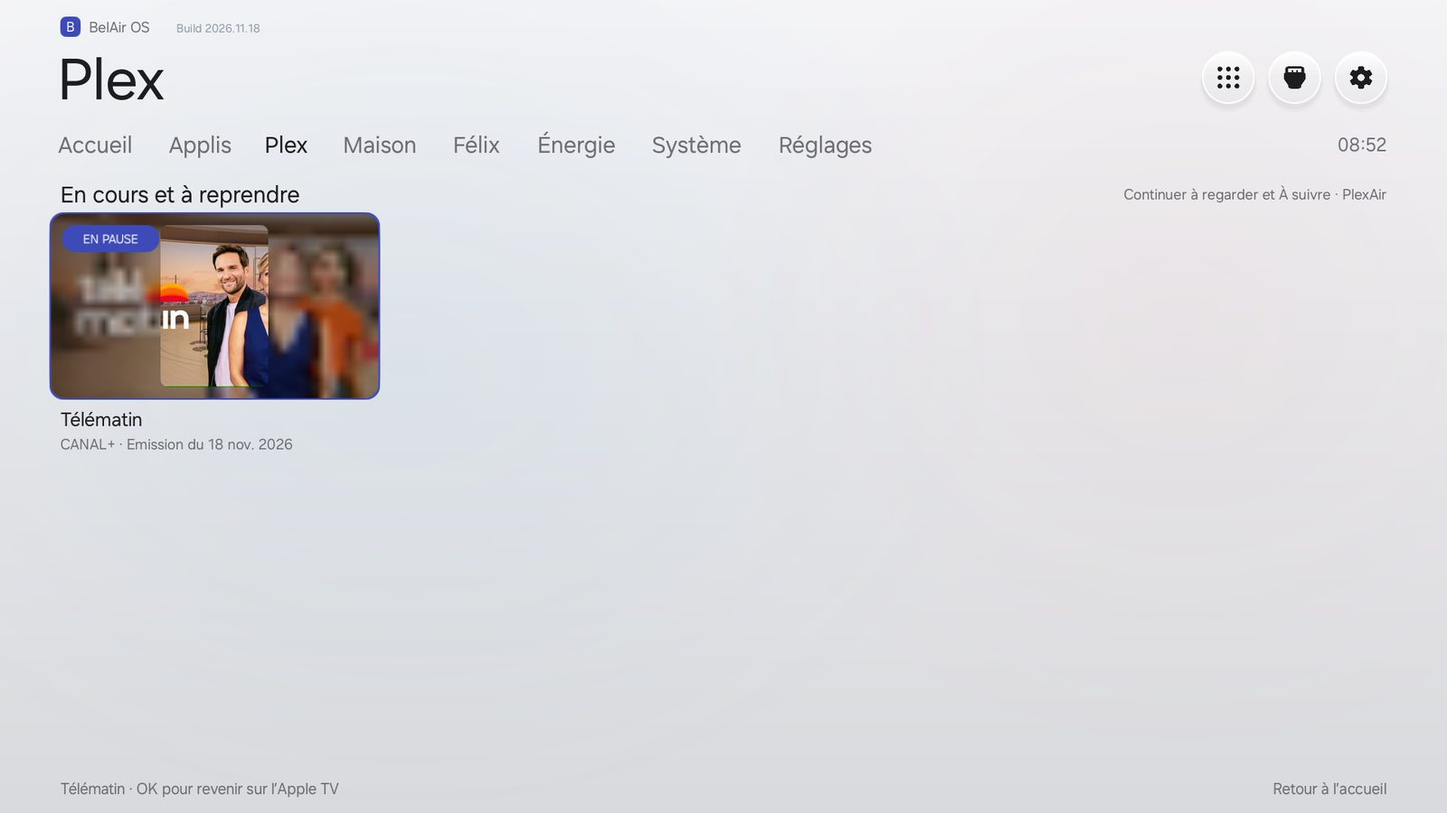
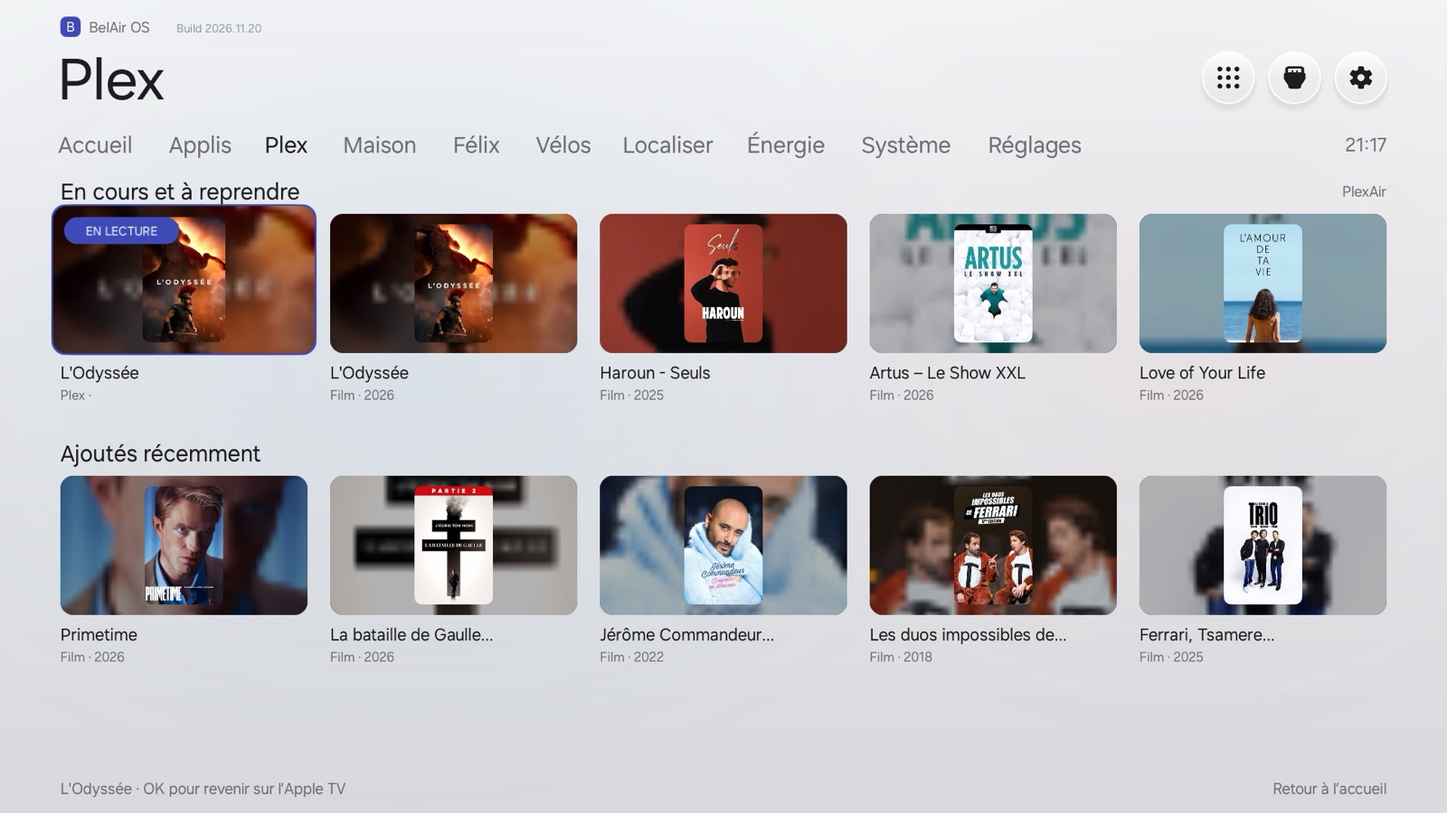
README screenshots (Vélos, Localiser in demo mode, PIN, Plex, popup); Localiser zoom and PIN pad; Plex via the Apple TV player; security: only BelAir's Home may send home commands, service allowlist, certificate bypass limited to the local HA; Plan IGN basemap; iPhones first

diff --git a/launcher/src/Home.cs b/launcher/src/Home.cs
@@ -253,6 +253,7 @@ public sealed class QuietHome : NUIApplication
   else if(requested!=null&&requested.StartsWith("show:light:")){page=5;area=1;selected=0;lightId=requested.Substring(11);lightOpen=true;lightRow=0;lightCol=0;BuildPage();}
   else if(requested!=null&&requested.StartsWith("show:catalog:")){page=5;area=1;selected=0;lightId=requested.Substring(13);lightOpen=true;catalogOpen=true;catIndex=0;catSel=0;catPage=0;catOnTabs=true;BuildPage();}
   else if(requested!=null&&requested.StartsWith("show:cover:")){page=5;area=1;selected=0;coverPopupEntity=requested.Substring(11);coverPopupSel=2;coverPopupOpen=true;BuildPage();}
+  else if(requested!=null&&requested.StartsWith("show:findfocus:")&&Demo()){page=11;area=1;findFocus="device_tracker.demo_"+requested.Substring(15);BuildPage();}
   else if(requested=="show:close"){CloseBrief(false);pictureOpen=false;cleanOpen=false;BuildPage();}
   else if(requested=="show:picture"){page=2;area=1;selected=3;BuildPage();OpenPicture();}
   else if(requested=="show:clean"){page=9;area=1;selected=0;cleanOpen=true;cleanRow=0;cleanCol=0;BuildPage();}
@@ -671,7 +672,7 @@ public sealed class QuietHome : NUIApplication
   if(page==0&&factDetailOpen)BuildFactDetail();
   selected=Math.Max(0,Math.Min(selected,slots.Count-1));UpdateFocus(false);
   if(page==10&&mapSel>=0)ApplyMapMode();
-  if(page!=11&&findUnlocked){findUnlocked=false;pinEntry="";findFocus="";}
+  if(page!=11&&findUnlocked){findUnlocked=false;pinEntry="";findFocus="";findZoom=-1;}
   buildMilliseconds=stopwatch.ElapsedMilliseconds;WriteState("page_ready");
  }
  void BuildForecast()
@@ -2092,7 +2093,8 @@ public sealed class QuietHome : NUIApplication
   for(int i=0;i<tabs.Length;i++){bool act=tabPage[i]==page;tabs[i].TextColor=act?ink:muted;tabs[i].FontFamily="Quiet Inter "+(act?"Semibold":"Medium");tabs[i].BackgroundColor=area==0&&act?(dark?new Color(1,1,1,.14f):new Color(1,1,1,.7f)):new Color(0,0,0,0);tabs[i].CornerRadius=new Vector4(34,34,34,34);}
   for(int i=0;i<slots.Count;i++){
    var s=slots[i];bool newsControl=s.Action.StartsWith("news_category:")||s.Action.StartsWith("news_item:")||s.Action.StartsWith("quote:");
-   bool f=factDetailOpen?false:page==3?area==3&&selected==i:newsMenuOpen?newsControl&&area!=9&&!quoteDetailOpen&&selected==i:area!=0&&area!=9&&selected==i;
+   // PIN pad: focus is shown only on its starting key (1), so you know where you are but nobody can follow the code.
+   bool f=factDetailOpen?false:page==11&&!findUnlocked?selected==i&&slots[i].Action=="pin:1":page==3?area==3&&selected==i:newsMenuOpen?newsControl&&area!=9&&!quoteDetailOpen&&selected==i:area!=0&&area!=9&&selected==i;
    float scale=f?(page==8||page==9||page==10||page==11?(s.H>120?1.06f:1.05f):page==2&&s.Row==2?1.04f:page==5||page==4?1.05f:s.Action=="news"?1.035f:newsControl?1.015f:page==1&&s.Row>=0?1.055f:page==2&&s.Row>=0?1.035f:s.Row==0?1.05f:s.Row==1?(page==0?1.14f:1.03f):s.Row==-2?1.025f:s.Row==-1?1.18f:1):1;
    s.Card.BorderlineWidth=page==8||page==9||page==10||page==11||page==2&&s.Row==2?(f?4:0):page==5||page==4?(f?3:0):s.Action=="news"?(f?3:0):newsControl?(f?4:0):s.Row==1?(f?3:0):page==1&&s.Row>=0?(f?4:1):s.Row==-2?(f?4:0):s.Row==-1?(f?4:0):s.Row==0?1:0;
    s.Card.BorderlineColor=(page==1||page==4||page==5||page==8||page==9||page==10||page==11||page==2&&s.Row==2||s.Row==-1||newsControl)&&f?accent:new Color(1,1,1,f?.8f:.28f);
@@ -2113,7 +2115,7 @@ public sealed class QuietHome : NUIApplication
   }
   if(focusAnimation!=null)focusAnimation.Play();
   if(clock!=null)clock.Opacity=page==3||page==4||page!=0&&area==3?0:1;toolbarHint.Text=area==3?slots[selected].Name:"";
-  detail.Text=quoteDetailOpen?"←/→ échelle · ↑/↓ action précédente ou suivante · Retour pour fermer":area==11?"←/→ choisir · OK graphique du jour · ↑ rubriques · ↓ articles":page==3&&area==5?"←/→ heures · ↓ jours · OK détail · ↑ menu":page==3&&area==6?"←/→ jours · ↑ heures · OK détail":area==7?"←/→ rubrique · ↓ titres · OK pour afficher":area==8?"↑ rubriques · ←/→ changer · OK pour le détail":area==4&&selected==metroSlotIndex?"OK pour voir les 2 prochains métros par direction":area==4?"OK pour les prévisions du jour et sur 7 jours":(page==1||page==8||page==9||page==10||page==11)&&area==1&&slots[selected].Row>=0?slots[selected].Name+" · "+slots[selected].Description:area==0&&page==0?"↑ Actualités · gauche/droite pour changer d’écran":area==0?"":area==2?slots[selected].Name:"";
+  detail.Text=quoteDetailOpen?"←/→ échelle · ↑/↓ action précédente ou suivante · Retour pour fermer":area==11?"←/→ choisir · OK graphique du jour · ↑ rubriques · ↓ articles":page==3&&area==5?"←/→ heures · ↓ jours · OK détail · ↑ menu":page==3&&area==6?"←/→ jours · ↑ heures · OK détail":area==7?"←/→ rubrique · ↓ titres · OK pour afficher":area==8?"↑ rubriques · ←/→ changer · OK pour le détail":area==4&&selected==metroSlotIndex?"OK pour voir les 2 prochains métros par direction":area==4?"OK pour les prévisions du jour et sur 7 jours":(page==1||page==8||page==9||page==10||page==11)&&area==1&&slots[selected].Row>=0?(slots[selected].Name!=""?slots[selected].Name+" · ":"")+slots[selected].Description:area==0&&page==0?"↑ Actualités · gauche/droite pour changer d’écran":area==0?"":area==2?slots[selected].Name:"";
   if(page==2){
    slots[0].Label.Text=currentVolume<0?"Indisponible":currentVolume.ToString();
    slots[1].Label.Text=SettingName("brightness");
@@ -2164,7 +2166,8 @@ public sealed class QuietHome : NUIApplication
    }
    if(page==11&&!findUnlocked&&k.Length==1&&k[0]>='0'&&k[0]<='9'){PinKey(k);return;}
    if(page==11&&ringAsk!=""){HandleRingKey(k);return;}
-   if(page==11&&findUnlocked&&findFocus!=""&&(k=="XF86Back"||k=="Back"||k=="Escape")){findFocus="";RebuildKeepFocus();return;}
+   if(page==11&&findUnlocked&&(k=="XF86RaiseChannel"||k=="XF86LowerChannel"||k=="KP_Add"||k=="KP_Subtract"||k=="plus"||k=="minus")){FindZoom(k=="XF86RaiseChannel"||k=="KP_Add"||k=="plus"?1:-1);return;}
+   if(page==11&&findUnlocked&&findFocus!=""&&(k=="XF86Back"||k=="Back"||k=="Escape")){findFocus="";findZoom=-1;RebuildKeepFocus();return;}
    if(page==10&&mapSel>=0){HandleMapKey(k);return;}
    if(page==10&&area==1&&k=="Right"&&velib.Count+limePts.Count>0){EnterMap();return;}
    if((page==8||page==9||page==10||page==11)&&HandleGridKey(k,page==8?"plex_back":"felix_back"))return;
@@ -2325,6 +2328,7 @@ public sealed class QuietHome : NUIApplication
   if(a.StartsWith("channel:")){StartChannel(a.Substring(8));return;}
   if(a.StartsWith("atv:")){LaunchOnAppleTv(a);return;}
   if(a.StartsWith("pin:")){PinKey(a.Substring(4));return;}
+  if(a.StartsWith("findzoom:")){FindZoom(a.EndsWith("in")?1:-1);return;}
   if(a.StartsWith("find:")){
    string fid=a.Substring(5);
    if(!keyUpSeen){FocusFind(fid);return;}
@@ -2939,7 +2943,8 @@ public sealed class QuietHome : NUIApplication
  const int bikeMapX=560,bikeMapY=290,bikeMapW=1280,bikeMapH=690,bikeMapR=430;
  // Street map tiles per plan (key "theme|width|height|radius for 400 m"), from the helper's cache.
  readonly Dictionary<string,Tuple<List<Tuple<string,int,int>>,int>> basemaps=new Dictionary<string,Tuple<List<Tuple<string,int,int>>,int>>();readonly Dictionary<string,DateTime> basemapAsked=new Dictionary<string,DateTime>();
- string MapKey(int w,int h,int r){return (dark?"dark":"light")+"|"+w+"|"+h+"|"+r;}
+ static bool Demo(){try{return File.Exists("/tmp/quiet-demo");}catch{return false;}}
+ string MapKey(int w,int h,int r){return (Demo()?"demo-":"")+(dark?"dark":"light")+"|"+w+"|"+h+"|"+r;}
  // Adds the street map to a plan panel (asks for it the first time), with a dark veil in the dark theme.
  void AddBasemap(View map,int mw,int mh,int r,string target="")
  {
@@ -3011,7 +3016,7 @@ public sealed class QuietHome : NUIApplication
   leg.Add(new View{Position2D=new Position2D(556,9),Size2D=new Size2D(24,24),CornerRadius=new Vector4(12,12,12,12),BackgroundColor=HexColor("#83C491")});
   leg.Add(Label("Métro Bel-Air",588,6,160,30,16,ink,"Medium"));
   if(mapSel<0){var tip=new View{Position2D=new Position2D(mw-370,20),Size2D=new Size2D(350,42),CornerRadius=new Vector4(14,14,14,14),BackgroundColor=Sf(1,1,1,.92f)};map.Add(tip);var tl=Label("→ pour explorer la carte",0,6,350,30,17,ink,"Medium");tl.HorizontalAlignment=HorizontalAlignment.Center;tip.Add(tl);}
-  var attr=Label("© les contributeurs d’OpenStreetMap",mw-330,mh-36,310,26,14,dark?new Color(1,1,1,.6f):new Color(0,0,0,.55f),"Medium");attr.HorizontalAlignment=HorizontalAlignment.End;map.Add(attr);
+  var attr=Label("Plan IGN © IGN · © OpenStreetMap",mw-330,mh-36,310,26,14,dark?new Color(1,1,1,.6f):new Color(0,0,0,.55f),"Medium");attr.HorizontalAlignment=HorizontalAlignment.End;map.Add(attr);
  }
  void RequestBasemap(string key)
  {
@@ -3036,6 +3041,9 @@ public sealed class QuietHome : NUIApplication
  sealed class FindItem { public string Id="",Name="",Bs="",Model="",State="",Zone="",Sound="",Located=""; public int Bat=-1,Acc,Dx,Dy; public long Dist; }
  readonly List<FindItem> findItems=new List<FindItem>();bool findUnlocked,findLoaded;string pinEntry="",pinFirst=null,pinMsg="",findFocus="",pendingFind;int pinFails;DateTime pinLockUntil=DateTime.MinValue,lastFindRequest=DateTime.MinValue;string ringAsk="";int ringSel;
  const int findMapX=560,findMapY=290,findMapW=1280,findMapH=690,findMapR=170,findFocusR=300;
+ // Zoom steps: pixels for 400 m. -1 = automatic (overview or device).
+ static readonly int[] findZooms={45,80,120,170,300,520,900};int findZoom=-1;
+ void FindZoom(int dir){int cur=findZoom>=0?findZoom:Array.IndexOf(findZooms,findFocus!=""?findFocusR:findMapR);findZoom=Math.Max(0,Math.Min(findZooms.Length-1,cur+dir));RebuildKeepFocus();}
  string PinPath(){try{return System.IO.Path.Combine(Current.DirectoryInfo.Data,"find-pin.txt");}catch{return "";}}
  static string PinHash(string salt,string pin){using(var sha=System.Security.Cryptography.SHA256.Create())return Convert.ToBase64String(sha.ComputeHash(System.Text.Encoding.UTF8.GetBytes(salt+":"+pin)));}
  bool PinExists(){try{return File.Exists(PinPath());}catch{return false;}}
@@ -3043,11 +3051,11 @@ public sealed class QuietHome : NUIApplication
  void PinSave(string pin){try{string salt=Convert.ToBase64String(System.Security.Cryptography.RandomNumberGenerator.GetBytes(12));File.WriteAllText(PinPath(),salt+":"+PinHash(salt,pin));}catch{}}
  void PinKey(string k)
  {
-  if(DateTime.Now<pinLockUntil){pinMsg="Trop d’essais · patientez "+(int)(pinLockUntil-DateTime.Now).TotalSeconds+" s";RebuildKeepFocus();return;}
+  if(DateTime.Now<pinLockUntil){pinMsg="Trop d’essais · patientez "+(int)(pinLockUntil-DateTime.Now).TotalSeconds+" s";PinFocusOne();return;}
   if(k=="back"){Home("find_back");return;}
-  if(k=="del"){if(pinEntry.Length>0)pinEntry=pinEntry.Substring(0,pinEntry.Length-1);RebuildKeepFocus();return;}
+  if(k=="del"){if(pinEntry.Length>0)pinEntry=pinEntry.Substring(0,pinEntry.Length-1);PinFocusOne();return;}
   if(pinEntry.Length<4)pinEntry+=k;
-  if(pinEntry.Length<4){RebuildKeepFocus();return;}
+  if(pinEntry.Length<4){PinFocusOne();return;}
   string entry=pinEntry;pinEntry="";
   if(!PinExists()){
    if(pinFirst==null){pinFirst=entry;pinMsg="";}
@@ -3056,17 +3064,21 @@ public sealed class QuietHome : NUIApplication
   }
   else if(PinCheck(entry)){Unlock();return;}
   else{pinFails++;pinMsg=pinFails>=3?"Code incorrect · patientez 30 s":"Code incorrect";if(pinFails>=3){pinFails=0;pinLockUntil=DateTime.Now.AddSeconds(30);}}
-  RebuildKeepFocus();
+  PinFocusOne();
  }
+ // The PIN pad never shows which digit was chosen: focus goes back to 1 after every key, and the footer names no digit.
+ void PinFocusOne(){BuildPage();for(int i=0;i<slots.Count;i++)if(slots[i].Action=="pin:1"){selected=i;area=1;break;}UpdateFocus(false);}
  void Unlock(){findUnlocked=true;pinFails=0;pinMsg="";area=1;selected=0;if(!findLoaded||DateTime.Now-lastFindRequest>=TimeSpan.FromSeconds(20))RequestExtra(false,false,false,false,false,true);BuildPage();}
  void BuildFind()
  {
+  if(!findUnlocked&&Demo()){findUnlocked=true;findItems.Clear();findLoaded=false;RequestExtra(false,false,false,false,false,true);}
   if(!findUnlocked){BuildPinPad();return;}
   Text("Appareils et objets",80,232,1000,44,30,ink,"Semibold");
   var src=Text("Localiser (iCloud)"+(findLoaded?"":" · chargement…"),1140,236,700,36,19,muted,"Medium");src.HorizontalAlignment=HorizontalAlignment.End;
-  var items=findItems.OrderBy(f=>f.State=="home"?0:1).ThenBy(f=>f.Dist).Take(5).ToList();
+  // iPhones first, then whatever is at home, then by distance
+  var items=findItems.OrderBy(f=>f.Model.StartsWith("iPhone")||f.Name.Contains("iPhone")?0:1).ThenBy(f=>f.State=="home"?0:1).ThenBy(f=>f.Dist).Take(5).ToList();
   var focus=items.FirstOrDefault(f=>f.Id==findFocus);if(focus==null)findFocus="";
-  int cw=460,ch=124,gy=12,R=focus!=null?findFocusR:findMapR,mw=findMapW,mh=findMapH,cx=mw/2,cy=mh/2;var pinInk=new Color(.10f,.12f,.16f,1);
+  int cw=460,ch=124,gy=12,R=findZoom>=0?findZooms[findZoom]:(focus!=null?findFocusR:findMapR),mw=findMapW,mh=findMapH,cx=mw/2,cy=mh/2;var pinInk=new Color(.10f,.12f,.16f,1);
   // plan centre: home, or the chosen device (others placed relative to it when they are in the same area)
   bool far=focus!=null&&focus.Dist>=20000;int ox=focus!=null&&!far?focus.Dx:0,oy=focus!=null&&!far?focus.Dy:0;
   if(items.Count==0)Text(findLoaded?"Aucun appareil localisé.":"Chargement…",80,300,460,50,24,muted,"Medium");
@@ -3106,7 +3118,11 @@ public sealed class QuietHome : NUIApplication
   leg.Add(Label("Maison",48,6,80,30,16,ink,"Medium"));
   leg.Add(new View{Position2D=new Position2D(134,9),Size2D=new Size2D(24,24),CornerRadius=new Vector4(12,12,12,12),BackgroundColor=white,BorderlineWidth=3,BorderlineColor=accent});
   leg.Add(Label("Appareil (n° de la tuile)",166,6,290,30,16,ink,"Medium"));
-  var attr=Label("© les contributeurs d’OpenStreetMap",mw-330,mh-36,310,26,14,dark?new Color(1,1,1,.6f):new Color(0,0,0,.55f),"Medium");attr.HorizontalAlignment=HorizontalAlignment.End;map.Add(attr);
+  var attr=Label("Plan IGN © IGN · © OpenStreetMap",mw-330,mh-36,310,26,14,dark?new Color(1,1,1,.6f):new Color(0,0,0,.55f),"Medium");attr.HorizontalAlignment=HorizontalAlignment.End;map.Add(attr);
+  for(int z=0;z<2;z++){int bx=findMapX+mw-86,by=findMapY+(focus!=null?150:20)+z*76;
+   var zb=Panel(bx+33,by+33,66,66,Sf(1,1,1,.94f),33);zb.PivotPoint=new Position(.5f,.5f,.5f);zb.PositionUsesPivotPoint=true;
+   var zl=Label(z==0?"+":"−",0,0,66,62,38,ink,"Semibold");zl.HorizontalAlignment=HorizontalAlignment.Center;zb.Add(zl);
+   slots.Add(new Slot{Card=zb,Name=z==0?"Zoom avant":"Zoom arrière",Action=z==0?"findzoom:in":"findzoom:out",Description="Zoom de la carte · CH +/− sur la télécommande",Row=z,X=bx,Y=by,W=66,H=66});}
   if(ringAsk!="")BuildRingConfirm();
  }
  string FindPlace(FindItem it)
@@ -3133,7 +3149,7 @@ public sealed class QuietHome : NUIApplication
    var card=Panel(x+kw/2,y+kh/2,kw,kh,Sf(1,1,1,.92f),22);card.PivotPoint=new Position(.5f,.5f,.5f);card.PositionUsesPivotPoint=true;
    string lab=keys[i]=="del"?"Effacer":keys[i]=="back"?"Annuler":keys[i];
    var l=Label(lab,0,0,kw,kh,keys[i].Length==1?40:22,ink,keys[i].Length==1?"Display":"Semibold");l.HorizontalAlignment=HorizontalAlignment.Center;card.Add(l);
-   slots.Add(new Slot{Card=card,Name=lab,Action="pin:"+keys[i],Description="Chiffres de la télécommande ou flèches + OK",Row=row,X=x,Y=y,W=kw,H=kh});}
+   slots.Add(new Slot{Card=card,Name="",Action="pin:"+keys[i],Description="Chiffres de la télécommande ou flèches + OK",Row=row,X=x,Y=y,W=kw,H=kh});}
  }
  void ReceiveFind(string json)
  {
@@ -3161,7 +3177,7 @@ public sealed class QuietHome : NUIApplication
   for(int i=0;i<2;i++){bool f=i==ringSel;var b=new View{Position2D=new Position2D(bx+i*(bw+gx),160),Size2D=new Size2D(bw,bh),CornerRadius=new Vector4(20,20,20,20),BackgroundColor=f?(i==1?new Color(.89f,.22f,.17f,1):accent):Sf(.93f,.94f,.97f,1)};panel.Add(b);
    var l=Label(lab[i],0,0,bw,bh,24,f?white:ink,"Semibold");l.HorizontalAlignment=HorizontalAlignment.Center;b.Add(l);}
  }
- void FocusFind(string id){findFocus=findFocus==id?"":id;RebuildKeepFocus();}
+ void FocusFind(string id){findFocus=findFocus==id?"":id;findZoom=-1;RebuildKeepFocus();}
  void FindSound(string id)
  {
   var it=findItems.FirstOrDefault(f=>f.Id==id);if(it==null)return;

diff --git a/launcher/src/QuickLaunch.cs b/launcher/src/QuickLaunch.cs
@@ -210,7 +210,11 @@ public sealed class QuickLaunch : NUIApplication {
  static List<string[]> velibNear;static DateTime velibInfoAt=DateTime.MinValue;
  // The plan is centred on home: Home Assistant's zone.home (never stored in the code); Bel-Air metro until it is read.
  static double ctrLat=belAirLat,ctrLon=belAirLon;static bool ctrLoaded;
+ // Demo mode for screenshots (/tmp/quiet-demo): plans centred on the Élysée palace, fictional devices on Localiser.
+ static bool Demo(){try{return File.Exists("/tmp/quiet-demo");}catch{return false;}}static bool demoCenter;
  static void LoadCenter(){
+  bool demo=Demo();
+  if(demo!=demoCenter){demoCenter=demo;velibNear=null;ctrLoaded=false;Tlog("centre "+(demo?"demo":"home"));if(demo){ctrLat=48.87042;ctrLon=2.31674;ctrLoaded=true;return;}}
   if(ctrLoaded)return;
   try{string json=HaGet("/api/states/zone.home");if(json==null)return;using(var doc=JsonDocument.Parse(json)){var a=doc.RootElement.GetProperty("attributes");
    if(a.TryGetProperty("latitude",out var la)&&la.ValueKind==JsonValueKind.Number&&a.TryGetProperty("longitude",out var lo)&&lo.ValueKind==JsonValueKind.Number){ctrLat=la.GetDouble();ctrLon=lo.GetDouble();ctrLoaded=true;velibNear=null;}}}catch{}
@@ -258,6 +262,14 @@ public sealed class QuickLaunch : NUIApplication {
  static readonly System.Collections.Concurrent.ConcurrentDictionary<string,double[]> findPos=new System.Collections.Concurrent.ConcurrentDictionary<string,double[]>();
  static string FetchFindJson(){
   LoadCenter();
+  if(Demo()){
+   var now=DateTime.UtcNow;string Iso(int min)=>now.AddMinutes(-min).ToString("yyyy-MM-ddTHH:mm:ss+00:00");
+   var demo=new[]{new{n="iPhone",m="iPhone 17 Pro",st="home",b=82,bs="NotCharging",dx=8,dy=-5,acc=12,t=1},new{n="MacBook Air",m="MacBook Air (13-inch, M5)",st="home",b=64,bs="Charging",dx=-14,dy=9,acc=35,t=4},
+    new{n="AirPods Pro",m="AirPods Pro (2nd generation)",st="not_home",b=-1,bs="",dx=430,dy=-260,acc=18,t=9},new{n="iPhone (famille)",m="iPhone 17",st="not_home",b=41,bs="NotCharging",dx=-820,dy=610,acc=9,t=2},new{n="iPad",m="iPad Air",st="not_home",b=17,bs="NotCharging",dx=1900,dy=-1300,acc=25,t=26}};
+   var dms=new MemoryStream();using(var w=new Utf8JsonWriter(dms)){w.WriteStartArray();int i=0;foreach(var d in demo){i++;w.WriteStartObject();w.WriteString("id","device_tracker.demo_"+i);w.WriteString("name",d.n);w.WriteString("bs",d.bs);w.WriteString("model",d.m);w.WriteString("state",d.st);w.WriteString("zone","");w.WriteString("sound","button.demo_play_sound");w.WriteString("located",Iso(d.t));w.WriteNumber("bat",d.b);w.WriteNumber("acc",d.acc);w.WriteNumber("dist",(long)Math.Sqrt(d.dx*d.dx+d.dy*d.dy));w.WriteNumber("dx",d.dx);w.WriteNumber("dy",d.dy);w.WriteEndObject();
+    findPos["device_tracker.demo_"+i]=new[]{ctrLat+d.dy/111320.0,ctrLon+d.dx/(111320.0*Math.Cos(ctrLat*Math.PI/180))};}w.WriteEndArray();}
+   return System.Text.Encoding.UTF8.GetString(dms.ToArray());
+  }
   string raw=HaPostJson("/api/template",JsonSerializer.Serialize(new{template=findTemplate}));if(raw==null)return null;
   var ms=new MemoryStream();
   try{using(var doc=JsonDocument.Parse(raw))using(var w=new Utf8JsonWriter(ms)){
@@ -277,16 +289,19 @@ public sealed class QuickLaunch : NUIApplication {
   }}catch{return null;}
   return System.Text.Encoding.UTF8.GetString(ms.ToArray());
  }
- // ---- street map behind the Vélos plan: OpenStreetMap tiles, fetched once and kept (about 25 tiles) ----
+ // ---- street map behind the plans: IGN's Plan IGN (open licence, no key; clean, Apple Plans-like), OpenStreetMap
+ // when a tile is missing. Fetched once and kept (a few dozen tiles per view). ----
  // request "dark|width|height|radius": the plan is width×height display pixels, 400 m = radius pixels, centred on Bel-Air.
  static string FetchBasemapJson(string request){
   var p=request.Split('|');if(p.Length<4)return null;
-  foreach(var old in new[]{"basemap-dark_all","basemap-light_all"})try{string od=System.IO.Path.Combine(SharedDir(""),old);if(Directory.Exists(od))Directory.Delete(od,true);}catch{}
+  foreach(var old in new[]{"basemap-dark_all","basemap-light_all","basemap-osm"})try{string od=System.IO.Path.Combine(SharedDir(""),old);if(Directory.Exists(od))Directory.Delete(od,true);}catch{}
   int W=int.Parse(p[1]),H=int.Parse(p[2]),R=int.Parse(p[3]);int z=16;
   // zoom level whose tiles are shown at or below their own size (sharp): never stretched more than 10 %
-  while(z<18&&R/400.0*156543.03392*Math.Cos((p.Length>4&&findPos.TryGetValue(p[4],out var zp)?zp[0]:ctrLat)*Math.PI/180)/Math.Pow(2,z)>1.1)z++;
-  LoadCenter();
-  double cLat=ctrLat,cLon=ctrLon;
+  double zlat=(p.Length>4&&findPos.TryGetValue(p[4],out var zp)?zp[0]:ctrLat)*Math.PI/180;
+  Func<int,double> scale=zz=>R/400.0*156543.03392*Math.Cos(zlat)/Math.Pow(2,zz);
+  while(z<19&&scale(z)>1.1)z++;
+  while(z>10&&scale(z)<0.55)z--;
+  LoadCenter();double cLat=ctrLat,cLon=ctrLon;
   if(p.Length>4&&p[4].StartsWith("device_tracker.")){if(!findPos.ContainsKey(p[4]))FetchFindJson();if(findPos.TryGetValue(p[4],out var fp)){cLat=fp[0];cLon=fp[1];}else return null;}
   double latr=cLat*Math.PI/180,world=256*Math.Pow(2,z);
   double cx=(cLon+180)/360*world,cy=(1-Math.Log(Math.Tan(latr)+1/Math.Cos(latr))/Math.PI)/2*world;
@@ -294,14 +309,15 @@ public sealed class QuickLaunch : NUIApplication {
   double hw=W/2.0/sc,hh=H/2.0/sc;
   int tx0=(int)Math.Floor((cx-hw)/256),tx1=(int)Math.Floor((cx+hw)/256),ty0=(int)Math.Floor((cy-hh)/256),ty1=(int)Math.Floor((cy+hh)/256);
   if((tx1-tx0+1)*(ty1-ty0+1)>80)return null;
-  string dir=SharedDir("basemap-osm");
+  string dir=SharedDir("basemap-ign");
   var jobs=new List<Task<string[]>>();
   for(int tx=tx0;tx<=tx1;tx++)for(int ty=ty0;ty<=ty1;ty++){int x=tx,y=ty;
    jobs.Add(Task.Run(()=>{
     string f=System.IO.Path.Combine(dir,z+"_"+x+"_"+y+".png");
     if(!File.Exists(f)){
      if(webClient==null)WebGet("about:blank");
-     try{var bytes=webClient.GetByteArrayAsync("https://tile.openstreetmap.org/"+z+"/"+x+"/"+y+".png").GetAwaiter().GetResult();if(bytes.Length>100&&bytes[0]==0x89){File.WriteAllBytes(f+".part",bytes);File.Move(f+".part",f,true);}}catch{}
+     foreach(var url in new[]{"https://data.geopf.fr/wmts?SERVICE=WMTS&REQUEST=GetTile&VERSION=1.0.0&LAYER=GEOGRAPHICALGRIDSYSTEMS.PLANIGNV2&STYLE=normal&TILEMATRIXSET=PM&TILEMATRIX="+z+"&TILEROW="+y+"&TILECOL="+x+"&FORMAT=image/png","https://tile.openstreetmap.org/"+z+"/"+x+"/"+y+".png"})
+     try{if(File.Exists(f))break;var bytes=webClient.GetByteArrayAsync(url).GetAwaiter().GetResult();if(bytes.Length>100&&bytes[0]==0x89){File.WriteAllBytes(f+".part",bytes);File.Move(f+".part",f,true);}}catch{}
     }
     return File.Exists(f)?new[]{f,((int)Math.Round((x*256-cx)*sc)).ToString(),((int)Math.Round((y*256-cy)*sc)).ToString()}:null;
    }));}
@@ -328,7 +344,14 @@ public sealed class QuickLaunch : NUIApplication {
  static readonly DateTime procStart=Process.GetCurrentProcess().StartTime;
  static void Tlog(string m){try{var f="/tmp/quiet-ha-timing.txt";if(File.Exists(f)&&new FileInfo(f).Length>40000)File.Delete(f);File.AppendAllText(f,DateTime.Now.ToString("HH:mm:ss.fff")+" "+m+"\n");}catch{}}
  protected override void OnAppControlReceived(AppControlReceivedEventArgs e){
-  base.OnAppControlReceived(e);Tlog("recv up="+(int)(DateTime.Now-procStart).TotalMilliseconds+"ms");string kind;bool preload=e.ReceivedAppControl.ExtraData.TryGet("launch_type",out kind)&&kind=="preload";
+  base.OnAppControlReceived(e);Tlog("recv up="+(int)(DateTime.Now-procStart).TotalMilliseconds+"ms");
+  // Commands that act on the home (Home Assistant services, Apple TV, Plex, banners) are accepted from BelAir's Home only.
+  string caller="";try{caller=e.ReceivedAppControl.CallerApplicationId??"";}catch{}
+  if(caller!="com.samsung.tv.bixby-promotion"){
+   foreach(var key in new[]{"quiet_ha_calls","quiet_ha_calls_silent","quiet_ha_domain","quiet_ha_batch","quiet_channel","quiet_plex_play","quiet_govee_scene","quiet_toast"}){
+    string v;if(e.ReceivedAppControl.ExtraData.TryGet(key,out v)){Tlog("refused "+key+" from "+(caller==""?"?":caller));if(idleTimer==null&&!watchHeld)Exit();return;}
+   }
+  }string kind;bool preload=e.ReceivedAppControl.ExtraData.TryGet("launch_type",out kind)&&kind=="preload";
   string toast;if(e.ReceivedAppControl.ExtraData.TryGet("quiet_toast",out toast)&&!string.IsNullOrEmpty(toast)){string mode;if(!e.ReceivedAppControl.ExtraData.TryGet("quiet_toast_mode",out mode))mode="active";if(mode=="window"){string tt;if(!e.ReceivedAppControl.ExtraData.TryGet("quiet_toast_title",out tt))tt="BelAir OS";ShowBanner(tt,toast);return;}ToastProbe(toast,mode);if(idleTimer==null)Exit();return;}
   string watch;if(e.ReceivedAppControl.ExtraData.TryGet("quiet_watch",out watch)){if(watch=="1")StartWatch();else StopWatch();if(idleTimer==null&&!watchHeld)Exit();return;}
   string articleUrl;
@@ -403,7 +426,8 @@ public sealed class QuickLaunch : NUIApplication {
    Task.Run(()=>{try{
     bool ok=true;
     if(wa||bt!=null)lock(actLock){
-     if(wa){
+     if(wa&&!HaActionAllowed(d,sv,en)){ok=false;Tlog("refused "+d+"."+sv);}
+     else if(wa){
       string body=ps!=null?("{\"entity_id\":\""+en+"\",\"position\":"+ps+"}"):("{\"entity_id\":\""+en+"\"}");
       ok=HaPost("/api/services/"+d+"/"+sv,LocalLight(d+"/"+sv,body));
      }
@@ -468,7 +492,8 @@ public sealed class QuickLaunch : NUIApplication {
   lock(clientLock){
   if(haClient!=null)return haClient;
   var h=new HttpClientHandler();
-  h.ServerCertificateCustomValidationCallback=(m,c,ch,er)=>true; // owner-authorised: local HA on the LAN uses a hostname-mismatched/self-signed certificate
+  // Only the local HA (private address, self-signed certificate) may skip validation; the remote URL must present a valid certificate.
+  h.ServerCertificateCustomValidationCallback=(m,c,ch,er)=>er==System.Net.Security.SslPolicyErrors.None||m.RequestUri!=null&&IsPrivateHost(m.RequestUri.Host);
   var cl=new HttpClient(h);cl.Timeout=TimeSpan.FromSeconds(15);
   cl.DefaultRequestHeaders.Authorization=new System.Net.Http.Headers.AuthenticationHeaderValue("Bearer",haToken);
   haClient=cl;return cl;
@@ -573,11 +598,25 @@ public sealed class QuickLaunch : NUIApplication {
   using(var u=new System.Net.Sockets.UdpClient()){foreach(int wait in new[]{0,400,600}){System.Threading.Thread.Sleep(wait);u.Send(msg,msg.Length,new IPEndPoint(addr,4003));}}
   try{File.WriteAllText("/tmp/quiet-govee.txt",DateTime.Now.ToString("HH:mm:ss")+" "+p[0]+" "+ip+" "+code+" frames="+frames.Count+(goveeIp.ContainsKey(p[0])?" (scan)":" (fallback)")+"\n");}catch{}
  }
+ // Services the Home screen uses; anything else is refused even from Home.
+ static bool HaActionAllowed(string domain,string service,string entity){
+  if(string.IsNullOrEmpty(entity)||!entity.StartsWith(domain+"."))return false;
+  switch(domain){
+   case "light":case "switch":return service=="turn_on"||service=="turn_off"||service=="toggle";
+   case "cover":return service=="set_cover_position"||service=="open_cover"||service=="close_cover"||service=="stop_cover";
+   case "scene":return service=="turn_on";
+   case "vacuum":return service=="start"||service=="pause"||service=="return_to_base"||service=="stop"||service=="locate";
+   case "automation":return service=="turn_on"||service=="turn_off";
+   case "button":return service=="press";
+   default:return false;
+  }
+ }
  static bool HaBatch(string json){
   bool all=true;
   try{using(var doc=JsonDocument.Parse(json)){foreach(var a in doc.RootElement.EnumerateArray()){
    string d=a.GetProperty("d").GetString(),s=a.GetProperty("s").GetString(),ent=a.GetProperty("e").GetString();
    if(d==null||s==null||ent==null)continue;
+   if(!ent.Split(',').All(x=>HaActionAllowed(d,s,x))){all=false;continue;}
    string eid;
    if(ent.IndexOf(',')>=0){var parts=ent.Split(',');eid="[";for(int i=0;i<parts.Length;i++)eid+=(i>0?",":"")+"\""+parts[i]+"\"";eid+="]";}
    else eid="\""+ent+"\"";
@@ -1084,6 +1123,9 @@ public sealed class QuickLaunch : NUIApplication {
  }
  // ---- media: what plays on the Apple TV, plus Plex "continue watching" and "on deck" read through Home Assistant ----
  const string plexClient="media_player.plex_plex_for_samsung_tv_2025";
+ // Home Assistant can only read the Plex library through a Plex player it currently sees: the Apple TV's, else the TV's.
+ static readonly string[] plexBrowsers={"media_player.plex_plex_for_apple_tv_apple_tv",plexClient};static string browseClient=plexClient;
+ static bool PickPlexBrowser(){foreach(var e in plexBrowsers){string js=HaGet("/api/states/"+e);if(js==null)continue;try{using(var d=JsonDocument.Parse(js)){string st=Str(d.RootElement,"state");if(st!=""&&st!="unavailable"){browseClient=e;return true;}}}catch{}}return false;}
  static string Str(JsonElement el,string name){return el.ValueKind==JsonValueKind.Object&&el.TryGetProperty(name,out var v)&&v.ValueKind==JsonValueKind.String?v.GetString()??"":"";}
  static double Num(JsonElement el,string name){return el.ValueKind==JsonValueKind.Object&&el.TryGetProperty(name,out var v)&&v.ValueKind==JsonValueKind.Number?v.GetDouble():0;}
  static byte[] HaGetBytes(string path){
@@ -1105,8 +1147,8 @@ public sealed class QuickLaunch : NUIApplication {
   }catch{return "";}
  }
  static string BrowseMedia(System.Net.WebSockets.ClientWebSocket ws,System.Threading.CancellationToken ct,int id,string type,string contentId){
-  string request=type==null?JsonSerializer.Serialize(new{id,type="media_player/browse_media",entity_id=plexClient})
-   :JsonSerializer.Serialize(new{id,type="media_player/browse_media",entity_id=plexClient,media_content_type=type,media_content_id=contentId});
+  string request=type==null?JsonSerializer.Serialize(new{id,type="media_player/browse_media",entity_id=browseClient})
+   :JsonSerializer.Serialize(new{id,type="media_player/browse_media",entity_id=browseClient,media_content_type=type,media_content_id=contentId});
   WsSend(ws,request,ct);
   string reply=WsRecv(ws,ct);
   return reply.Contains("\"success\":true")?reply:null;
@@ -1132,7 +1174,7 @@ public sealed class QuickLaunch : NUIApplication {
   var now=NowPlaying();
   List<Dictionary<string,string>> items=null;
   if(hubs){
-   var raw=WithHaSocket((ws,ct)=>{
+   var raw=!PickPlexBrowser()?null:WithHaSocket((ws,ct)=>{
     string rootReply=BrowseMedia(ws,ct,1,null,null);if(rootReply==null)return null;
     string root;using(var doc=JsonDocument.Parse(rootReply))root=Str(doc.RootElement.GetProperty("result"),"media_content_id");
     if(root=="")return null;

diff --git a/README.md b/README.md
@@ -29,7 +29,7 @@ Il est construit sur [Quiet Tizen](docs/quiet-tizen.md) (launcher natif NUI/C#, 
 | **Plex** | Ce qui joue sur l'Apple TV, « Reprendre » (Continuer à regarder, À suivre) et « Ajoutés récemment », lancement direct dans Plex |
 | **Maison** | Scènes, volets, lampes, lampes Govee avec scènes, mode cinéma automatique |
 | **Félix** | Robot aspirateur : carte en direct, état, entretien, nettoyage par pièce et programmes |
-| **Vélos** | Les 4 stations Vélib' les plus proches (vélos mécaniques, électriques, places) et les Lime disponibles sur un plan des rues centré sur le domicile ; les flèches parcourent le plan (autonomie de chaque Lime) |
+| **Vélos** | Les 4 stations Vélib' les plus proches (vélos mécaniques, électriques, places) et les Lime disponibles sur un plan des rues (Plan IGN) centré sur le domicile ; les flèches parcourent le plan (autonomie de chaque Lime) |
 | **Localiser** | Protégée par un code PIN : les appareils et objets de Localiser (intégration iCloud de Home Assistant) avec lieu, distance, batterie et dernière localisation, sur un plan des rues ; OK centre la carte sur un appareil, un appui long le fait sonner après confirmation |
 | **Énergie** | Consommation électrique quotidienne sur 30 jours (Linky / Octopus) |
 | **Système** | Infos TV : système, réseau, processeur, mémoire, stockage |
@@ -62,15 +62,33 @@ Tout passe par **Home Assistant** (local en priorité, accès distant en secours
 
 ## Notifications sur la TV
 
-Des popups s'affichent en haut à droite de l'écran **par-dessus n'importe quelle source**, Apple TV comprise, sans quitter le film : seules les touches OK et Retour sont réservées pendant qu'une popup est visible, OK la ferme.
+Des popups s'affichent en haut à droite de l'écran **par-dessus n'importe quelle source**, Apple TV comprise, sans quitter le film : seules les touches OK et Retour sont réservées pendant qu'une popup est visible. OK la ferme, tout comme un clic central sur la télécommande de l'Apple TV (la lecture reste comme elle était).
+
+![Popup sur la TV](docs/screenshots/popup.jpg)
 
 - **Depuis Home Assistant** : le script « BelAir OS · Message à la TV » (titre, message, icône ou image d'une entité, durée) émet l'événement `belair_notify` ; la TV, abonnée en direct, l'affiche en une seconde. Un tableau de bord « BelAir OS » permet d'écrire un message ou d'envoyer des messages rapides.
 - **Automatiques** : Félix a fini son ménage (avec sa carte) ou a besoin d'aide, pluie attendue dans l'heure.
 
+## Vélos et Localiser
+
+![Vélos](docs/screenshots/velos.jpg)
+
+- **Vélos** : les 4 stations Vélib' les plus proches, numérotées comme sur le plan, et les vélos Lime disponibles à moins de 400 m ; → entre dans le plan pour voir l'autonomie de chaque Lime.
+
+![Localiser](docs/screenshots/localiser.jpg)
+
+- **Localiser** : les appareils de Localiser (intégration iCloud de Home Assistant) avec batterie et dernière localisation. OK centre la carte sur un appareil, CH +/− ou les boutons + et − règlent le zoom, un appui long propose de le faire sonner (Annuler sélectionné par défaut).
+
+| | |
+|---|---|
+| ![Appareil centré](docs/screenshots/localiser-appareil.jpg) | ![Code PIN](docs/screenshots/localiser-code.jpg) |
+
+La page est protégée par un code à 4 chiffres choisi sur la TV (stocké haché sur la TV seulement) ; le clavier part toujours du 1 et n'affiche aucune sélection, pour que personne ne puisse lire le code.
+
 ## Divertissement
 
 - **Apple TV** : la tuile d'accueil montre en direct ce qui est en lecture (titre, appli, illustration dans l'écran dessiné, progression).
-- **Plex** : rangée « En cours et à reprendre » avec affiches ; OK ouvre Plex et lance le titre choisi.
+- **Plex** : « Reprendre » (Continuer à regarder, À suivre) et « Ajoutés récemment » avec affiches, lus via le lecteur Plex de l'Apple TV ou de la TV ; OK ouvre Plex et lance le titre choisi.
 
   ![Plex](docs/screenshots/plex.jpg)
 
